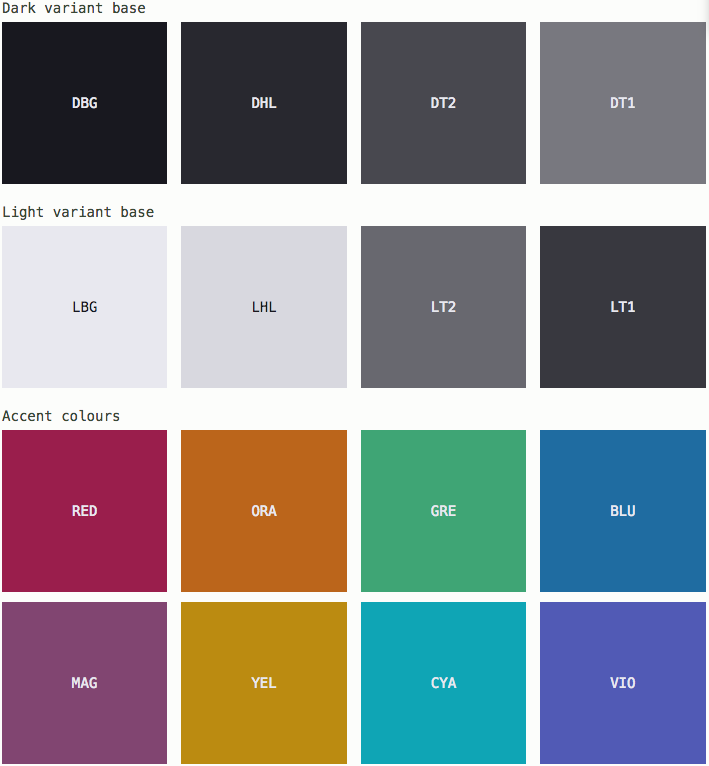
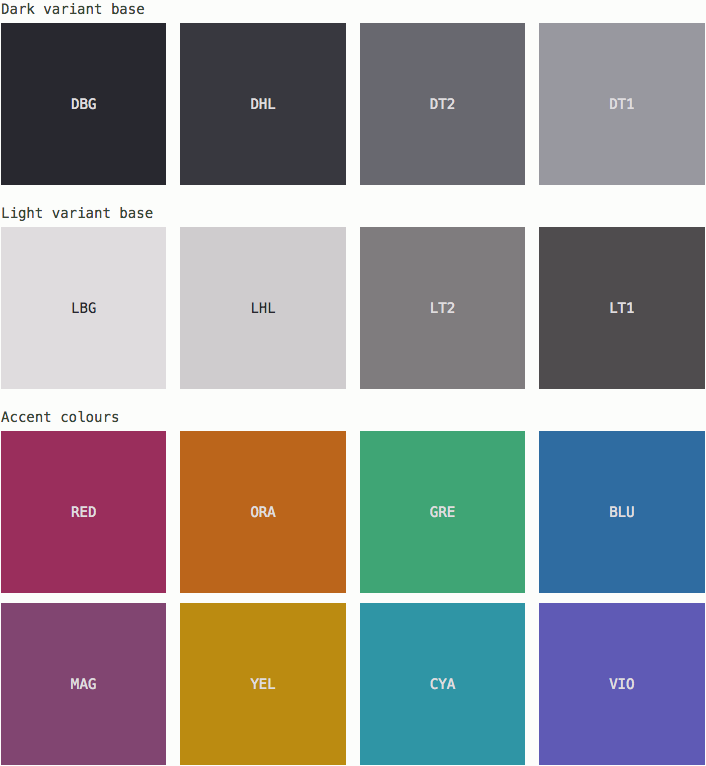
Update palette

diff --git a/lb/blau-syntax.scss b/lb/blau-syntax.scss
@@ -7,24 +7,24 @@
 
 // Variables ----------------------------
 
-$dbg: #18181F; // Dark background
-$dhl: #28282F; // Dark highlight
-$dt2: #48484F; // Dark bg text secondary
-$dt1: #78787F; // Dark bg text primary
+$dbg: #28282F; // Dark background
+$dhl: #38383F; // Dark highlight
+$dt2: #68686F; // Dark bg text secondary
+$dt1: #98989F; // Dark bg text primary
 
-$lbg: #E8E8EF; // Light background
-$lhl: #D8D8DF; // Light highlight
-$lt2: #68686F; // Light bg text secondary
-$lt1: #38383F; // Light bg text primary
+$lbg: #DFDCDE; // Light background
+$lhl: #CFCCCE; // Light highlight
+$lt2: #7F7C7E; // Light bg text secondary
+$lt1: #4F4C4E; // Light bg text primary
 
-$red: #9A1E4C; // Red
+$red: #9A2E5C; // Red
 $ora: #BB651B; // Orange
 $yel: #BB8B11; // Yellow
 $gre: #3FA575; // Green
 
-$cya: #0FA5B5; // Cyan
-$blu: #1F6CA1; // Blue
-$vio: #515AB5; // Violet
+$cya: #2F95A5; // Cyan
+$blu: #2F6CA1; // Blue
+$vio: #5F5AB5; // Violet
 $mag: #814571; // Magenta
 
 // Base Defaults ------------------------

diff --git a/README.md b/README.md
@@ -1,8 +1,6 @@
 # Blau syntax theme
 
-**Project in development. More info very soon.**
-
-A low-to-medium-contrast theme inspired by the colours of FC Barcelona. Blue is the most prevalent accent, followed by red, and violet.
+A medium-contrast theme inspired by the colours of FC Barcelona. Blue is the most prevalent accent, followed by red, and violet.
 
 *Blau* comes in light and dark variants. It is developed for the Atom text editor.
 
